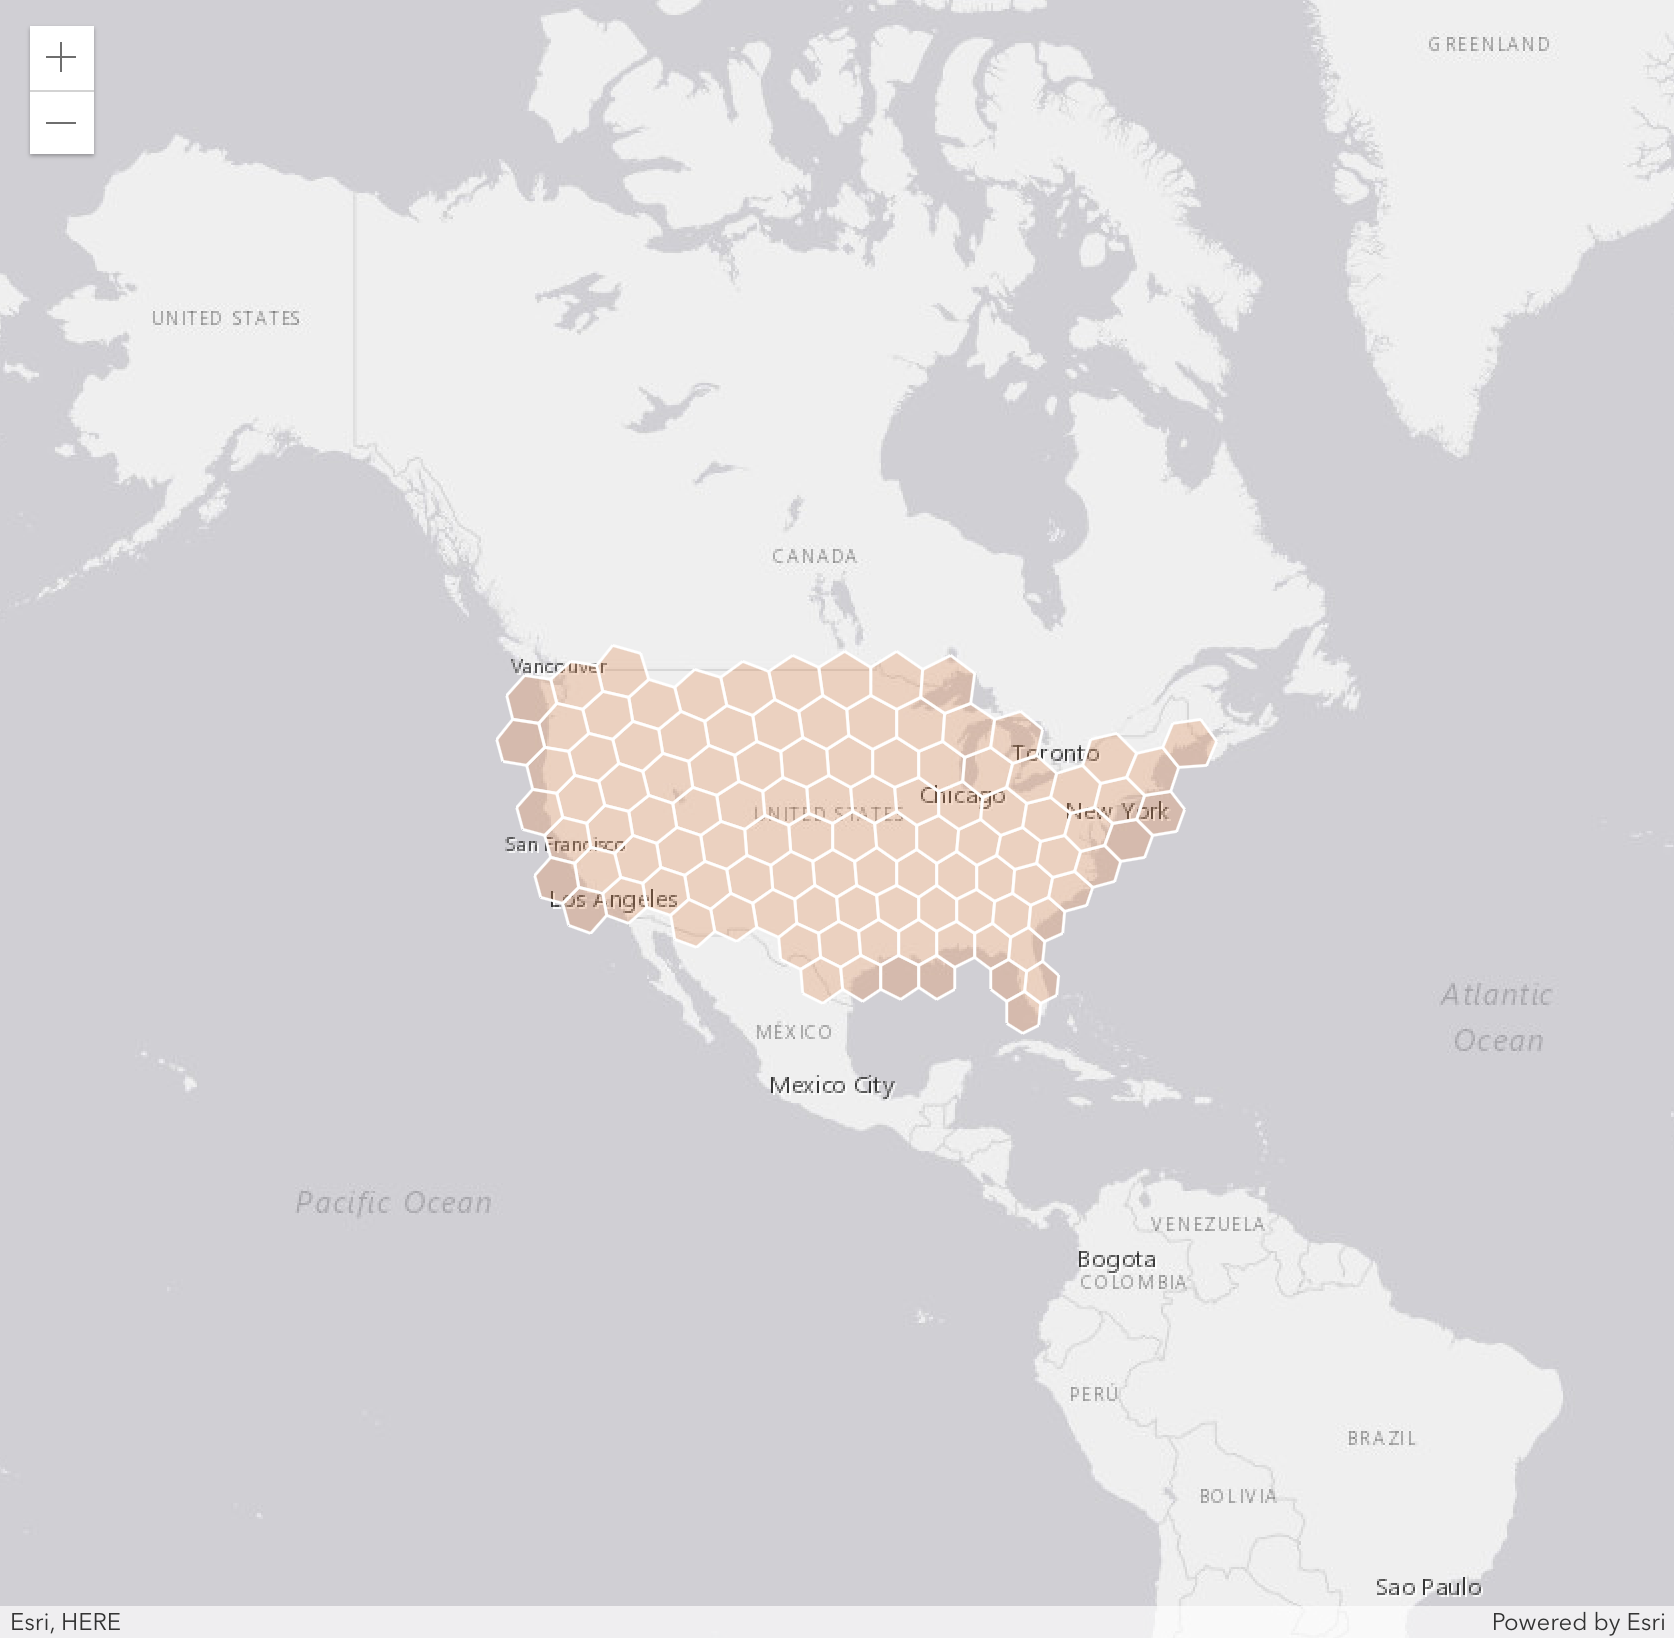
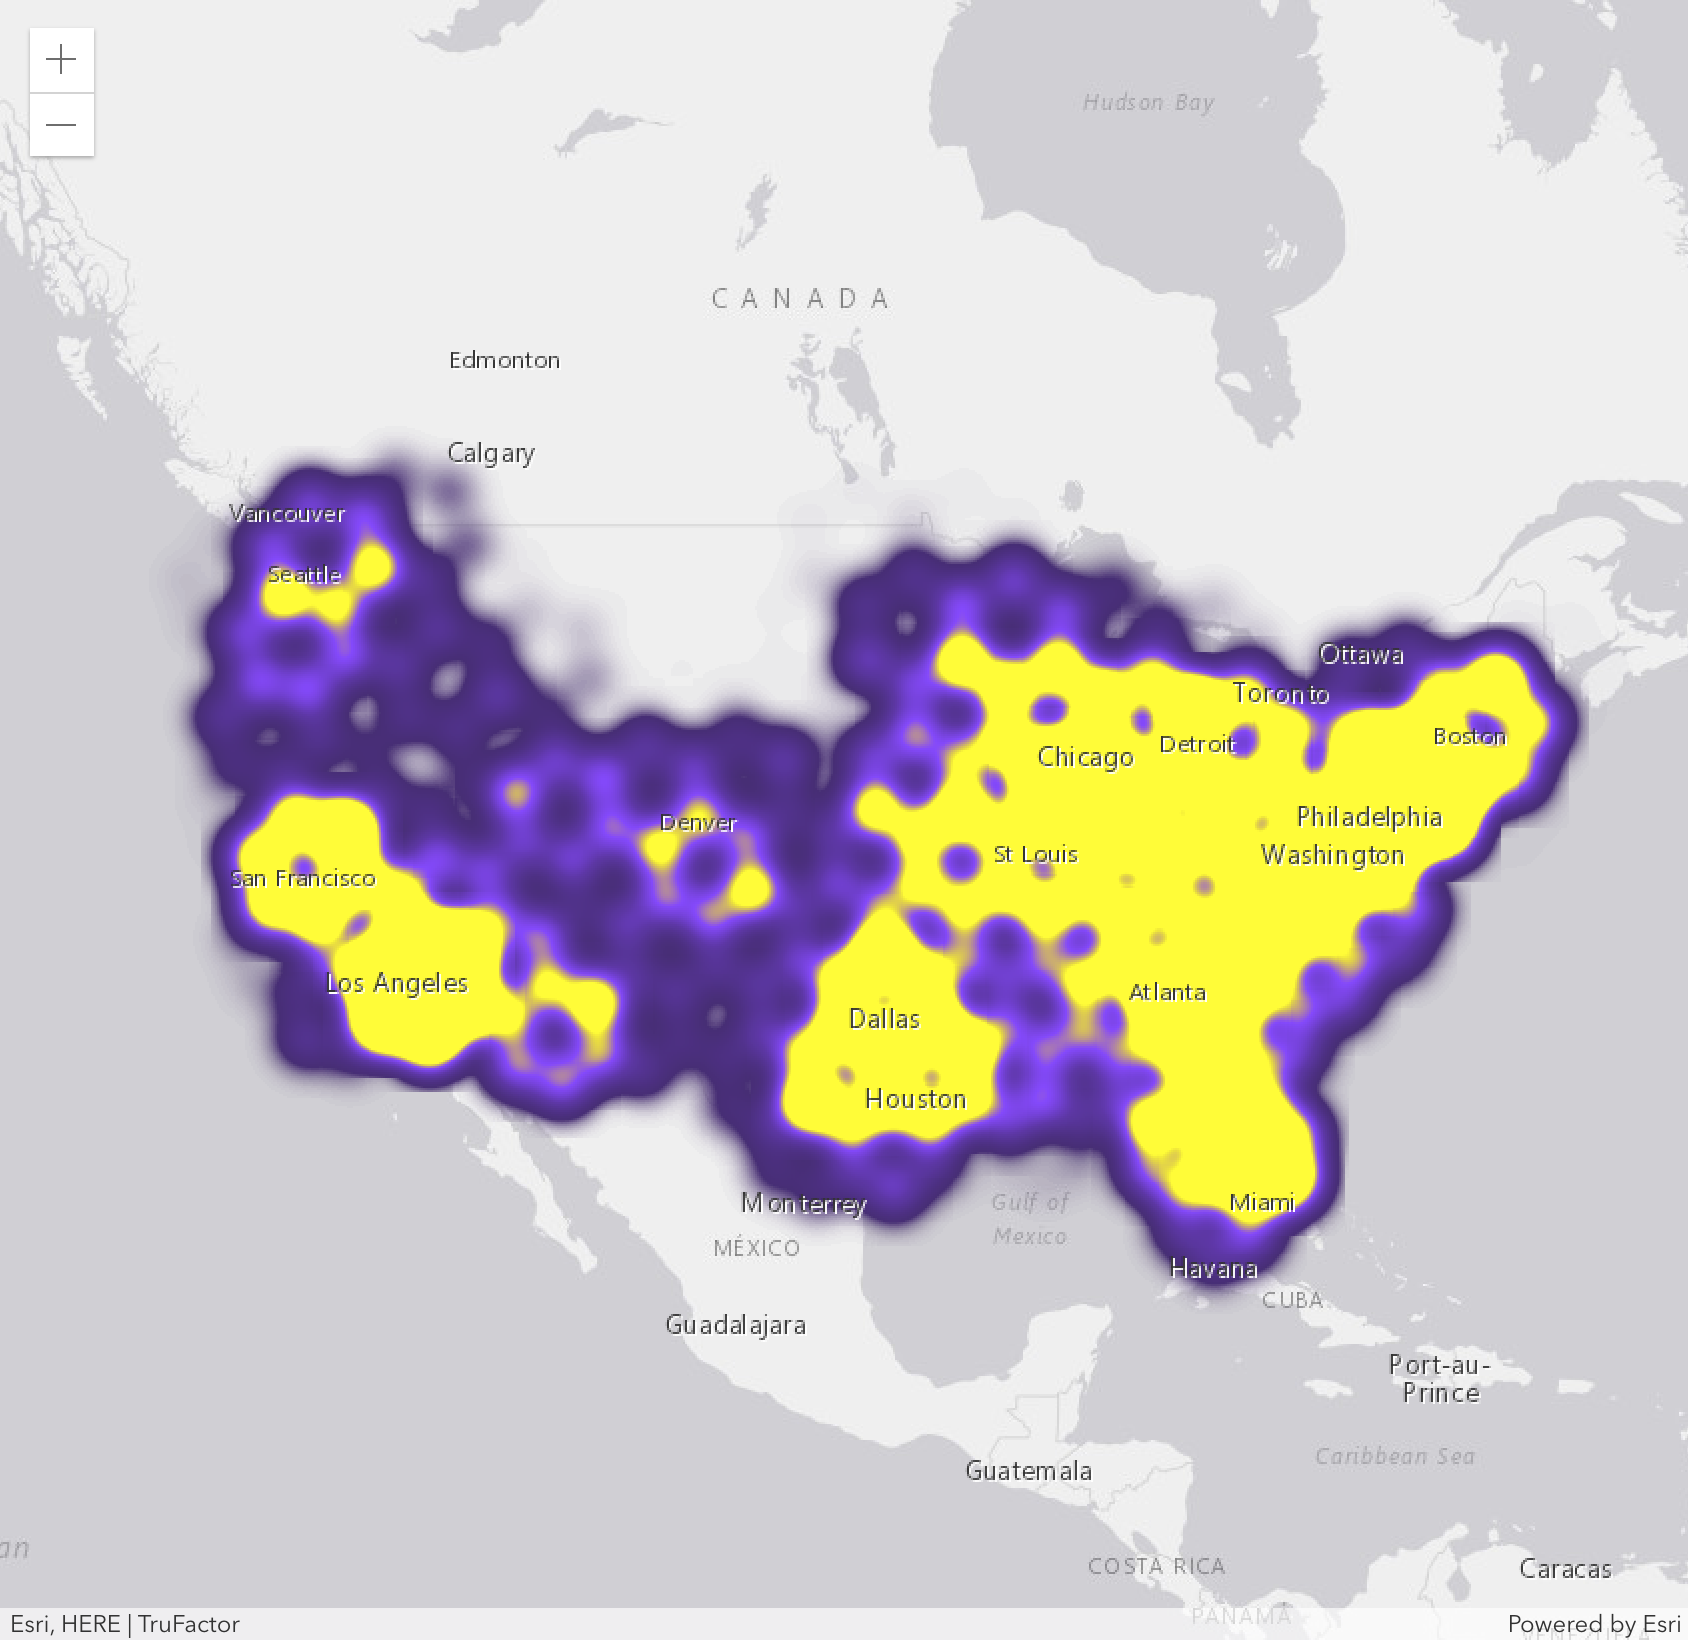
updated boilerplate to be heatmap, updated image

diff --git a/src/App.vue b/src/App.vue
@@ -10,11 +10,21 @@ export default {
   data(){
     return {
       db: new Trufactor({domain: 'demo'}),
-      layer: {
+      heatmapLayer: {
         title: 'TruFactor Boilerplate',
         copyright: 'TruFactor',
+        objectIdField: 'ObjectId',
+        fields: [
+          {name: 'ObjectId', type: 'oid'},
+          {name: 'date', type: 'string'},
+          {name: 'total', type: 'integer'}
+        ],
+        popupTemplate: {
+          content: '{date}: {total}'
+        },
         renderer: {
           type: 'heatmap',
+          field: 'total',
           colorStops: [
             { color: "rgba(63, 40, 102, 0)", ratio: 0 },
             { color: "#472b77", ratio: 0.083 },
@@ -30,12 +40,12 @@ export default {
             { color: "#e0cf40", ratio: 0.913 },
             { color: "#ffff00", ratio: 1 }
           ],
-          maxPixelIntensity: 25,
+          maxPixelIntensity: 1000000,
           minPixelIntensity: 0
         }
       },
       options: {
-        zoom: 3,
+        zoom: 4,
         container: 'map',
         center: [-98.5, 39.8]
       }
@@ -47,41 +57,41 @@ export default {
     // types instead of ES2015 imports.
     loadESRI([
       'esri/Map',
-      'esri/layers/GeoJSONLayer',
+      'esri/layers/FeatureLayer',
       'esri/views/MapView',
       'esri/Graphic'
     ])
-      .then(([Map, GeoJSONLayer, MapView, Graphic])=>{
+      .then(([Map, FeatureLayer, MapView, Graphic])=>{
         const map = new Map({basemap: 'gray'}),
               view = new MapView({map,...this.options});
 
         // this is a lifecycle hook called after the api caches the returned
         // data on the client
         this.db.afterGetData = ({data})=>{
-          view.graphics.addMany(
-            data.features.map(feature=>{
-              return new Graphic({
-                geometry: {
-                  type: 'polygon',
-                  rings: feature.geometry.coordinates[0]
-                },
-                attributes: {
-                  ObjectId: feature.properties.index,
-                  date: feature.properties.date,
-                  total: feature.properties.total
-                },
-                symbol: {
-                  type: "simple-fill", // autocasts as new SimpleFillSymbol()
-                  color: [227, 139, 79, 0.3],
-                  outline: {
-                    // autocasts as new SimpleLineSymbol()
-                    color: [255, 255, 255],
-                    width: 1
-                  }
-                }
-              });
-            })
-          );
+          const source = data.features.reduce((features,feature)=>{
+            return [
+              ...features,
+              ...feature.geometry.coordinates[0][0].reduce((points,point)=>{
+                return [
+                  ...points,
+                  new Graphic({
+                    geometry: {
+                      type: 'point',
+                      x: point[0],
+                      y: point[1]
+                    },
+                    attributes: {
+                      ObjectId: feature.properties.index,
+                      date: feature.properties.date,
+                      total: feature.properties.total
+                    }
+                  })
+                ];
+              },[])
+            ];
+          },[]);
+
+          map.add(new FeatureLayer({source,...this.heatmapLayer}));
         };
 
         // go ahead and initialize the first api data call
@@ -96,32 +106,6 @@ export default {
         // ensure we catch any errors if the ESRI modules change and become inconsistent
         console.error(err);
       });
-    /*
-    this.map = new mapboxgl.Map(this.options); //initialize map
-
-    // this lifecycle hooks is called when mapbox is loaded and ready
-    this.map.on('load',()=>{
-      this.map.addSource('trufactor-data',this.trufactorData);
-      this.map.addLayer(this.heatmapLayer);
-
-      // this is a lifecycle hook called after the api caches the returned
-      // data on the client
-      this.db.afterGetData = ({data})=>{
-
-        // update the maps data
-        this.trufactorData.data.features = data.features||[];
-
-        // update mapbox to reflect the data change
-        this.map.getSource('trufactor-data').setData(this.trufactorData.data);
-
-      };
-
-      // go ahead and initialize the first api data call
-      this.db.getData({
-        zoom: this.map.getZoom()/22, //normalize level between 0 & 1
-        query: this.map.getBounds()
-      });
-    });*/
   }
 };
 </script>
